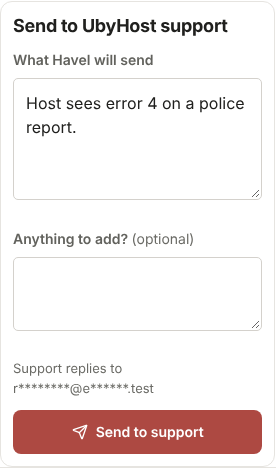
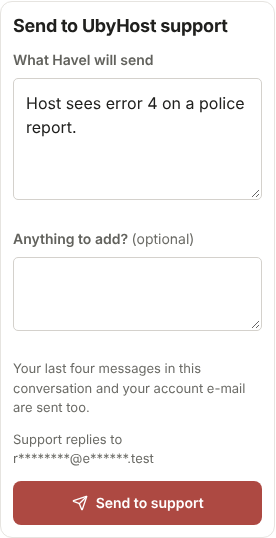
0319 review fix: the card says the last four messages go along; one mail per text per week; budget mail errors logged with traceback
Claude-Session: https://claude.ai/code/session_01VsKCoMnQ18tGgUqFLBf5SV

diff --git a/App/app/templates/_havel_support.html b/App/app/templates/_havel_support.html
@@ -13,6 +13,7 @@
   <h3 class="havel-support-title">{{ t('havel.support.title') }}</h3>
   {{ ui_textarea('havel-support-summary', t('havel.support.summary'), value=havel_support_prefill or '', name='summary', rows=4, attrs='maxlength="800"') }}
   {{ ui_textarea('havel-support-note', t('havel.support.add'), name='note', optional=true, rows=2, attrs='maxlength="600"') }}
+  <p class="havel-meta">{{ t('havel.support.includes') }}</p>
   {% if havel_support_to %}<p class="havel-meta">{{ t('havel.support.replies_to', email=havel_support_to) }}</p>{% endif %}
   {{ ui_button(t('havel.support.send'), 'primary', type='submit', icon_name='send') }}
 </form>

diff --git a/App/app/host_i18n.py b/App/app/host_i18n.py
@@ -1660,6 +1660,7 @@ STRINGS: Dict[str, Dict[str, str]] = {
         "havel.support.title": "Send to UbyHost support",
         "havel.support.add": "Anything to add?",
         "havel.support.send": "Send to support",
+        "havel.support.includes": "Your last four messages in this conversation and your account e-mail are sent too.",
         "havel.support.sent": "Forwarded to the UbyHost team. They know about it and usually reply within a few hours.",
         "havel.support.replies_to": "Support replies to %(email)s",
         "havel.support.mailto": "E-mail support",
@@ -3291,6 +3292,7 @@ STRINGS: Dict[str, Dict[str, str]] = {
         "havel.support.title": "Poslat podpoře UbyHostu",
         "havel.support.add": "Chcete něco doplnit?",
         "havel.support.send": "Poslat podpoře",
+        "havel.support.includes": "Spolu s tím se odešlou i vaše poslední čtyři zprávy z tohoto rozhovoru a e-mail účtu.",
         "havel.support.sent": "Předáno týmu UbyHostu. Vědí o tom a obvykle odpoví do několika hodin.",
         "havel.support.replies_to": "Podpora odpoví na %(email)s",
         "havel.support.mailto": "Napsat podpoře e-mail",

diff --git a/App/app/mail_notify.py b/App/app/mail_notify.py
@@ -2519,13 +2519,13 @@ def havel_support(
     *, user_id: int, account_email: str, workspace: str, lang: str, page: str, summary: str, note: str,
     turns: List[str],
 ) -> Optional[int]:
-    """The host's question to UbyHost support; the same text twice is one mail."""
+    """The host's question to UbyHost support; the same text twice in one week is one mail."""
     content = build_havel_support(account_email=account_email, workspace=workspace, lang=lang, page=page,
                                   summary=summary, note=note, turns=turns)
     digest = hashlib.sha256(f"{summary}\n{note}".encode("utf-8")).hexdigest()[:16]
     return mail.enqueue(
         kind="havel_support",
-        idempotency_key=f"havel-support-{user_id}-{digest}",
+        idempotency_key=f"havel-support-{user_id}-{datetime.now().strftime('%G-%V')}-{digest}",
         to_email=config.OPERATOR_EMAIL,
         subject=content["subject"],
         payload={"text": content["text"], "html": content["html"], "lang": HOST_MAIL_LANGUAGE},

diff --git a/App/tests/test_havel_support.py b/App/tests/test_havel_support.py
@@ -38,6 +38,7 @@ def test_escalate_shows_the_card_prefilled_and_sending_queues_one_mail(host, on)
     raw = host.post("/havel?lang=en", data=form).text
     page = html.unescape(raw)
     assert 'action="/havel/support"' in page and "Host sees error 4 on a police report." in page
+    assert "Your last four messages in this conversation and your account e-mail are sent too." in page
     assert 'ui-btn-compact" href="mailto:' not in page  # the nav has its own mailto; the Havel link is gone
     history = html.unescape(re.search(r'name="history" value="([^"]*)"', raw).group(1))
     sig = html.unescape(re.search(r'name="history_sig" value="([^"]*)"', raw).group(1))

diff --git a/App/app/host_vi_i18n.py b/App/app/host_vi_i18n.py
@@ -3221,6 +3221,7 @@ STRINGS: Dict[str, str] = {
     "havel.support.title": "Gửi cho bộ phận hỗ trợ UbyHost",
     "havel.support.add": "Bạn muốn bổ sung gì không?",
     "havel.support.send": "Gửi cho hỗ trợ",
+    "havel.support.includes": "Bốn tin nhắn gần nhất của bạn trong cuộc trò chuyện này và e-mail tài khoản cũng được gửi kèm.",
     "havel.support.sent": "Đã chuyển đến đội UbyHost. Họ đã biết và thường trả lời trong vòng vài giờ.",
     "havel.support.replies_to": "Hỗ trợ sẽ trả lời đến %(email)s",
     "havel.support.mailto": "Gửi e-mail cho hỗ trợ",

diff --git a/App/app/ai.py b/App/app/ai.py
@@ -257,7 +257,7 @@ def _warn_budget(feature: str) -> None:
         mail_notify.ai_budget(feature=feature, month=today().strftime("%Y-%m"),
                               spent=month_spend_usd(feature), cap=config.ai_monthly_usd(feature))
     except Exception:  # a mail problem must never cost the host the answer
-        log.warning("ai budget mail failed feature=%s", feature)
+        log.exception("ai budget mail failed feature=%s", feature)
 
 
 def call(feature: str, system_blocks: List[str], messages: List[Dict[str, Any]], schema: Dict[str, Any],
